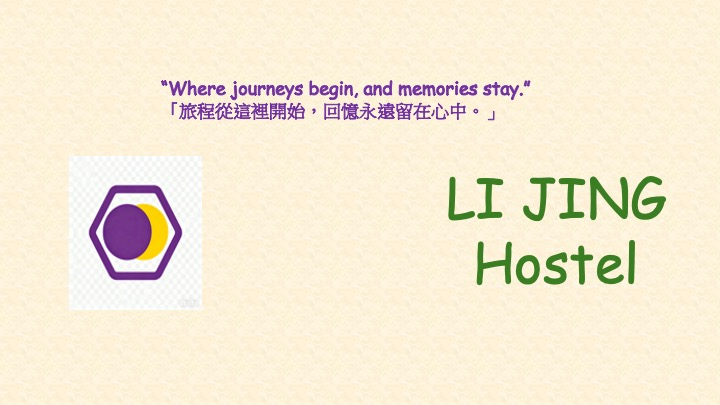
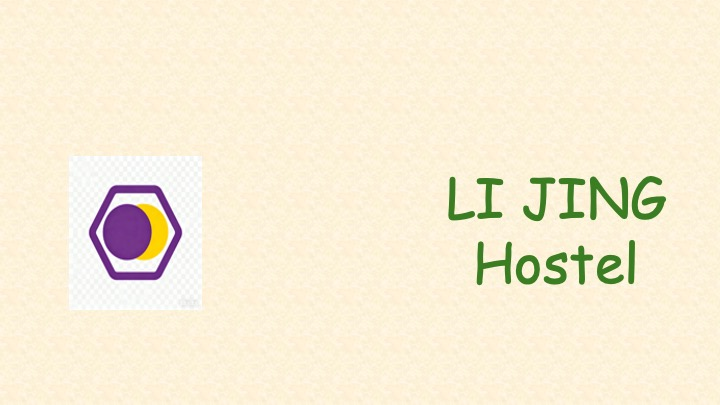
Step 06: upload 10 photos, improve front-end outlook

Changed region(s): [[0.2139, 0.1778, 0.7333, 0.2963]]

diff --git a/templates/listings/listing.html b/templates/listings/listing.html
@@ -44,7 +44,7 @@
         {% comment %} (DONE) {% endcomment %}
         <a href={% url "listings:listings" %} class="btn btn-light mb-4">Back To Listings</a>
         <div class="row">
-        <div class="col-md-9">j
+        <div class="col-md-9">
             <!-- Home Main Image -->
             {% comment %} (DONE) {% endcomment %}
             <img
@@ -161,41 +161,40 @@
             <div class="col-md-6">
                 <ul class="list-group list-group-flush">
                 <li class="list-group-item text-secondary">
-                    <i class="fas fa-money-bill-alt"></i> Inpatient Fee
-                    Estimate:
-                    <span class="float-right">$20,000/Day</span>
+                    <i class="fas fa-money-bill-alt"></i> Office-Style rooms:
+                    <span class="float-right">HK$499 per day</span>
                 </li>
                 <li class="list-group-item text-secondary">
-                    <i class="fas fa-bed"></i> Bedrooms:
-                    <span class="float-right">30</span>
+                    <i class="fas fa-bed"></i> Romantic-Style rooms:
+                    <span class="float-right">HK$999 per day</span>
                 </li>
                 <li class="list-group-item text-secondary">
-                    <i class="fas fa-bath"></i> Bathrooms:
-                    <span class="float-right">Private</span>
+                    <i class="fas fa-bath"></i> Family-Friendly rooms:
+                    <span class="float-right">HK$999 per day</span>
                 </li>
                 <li class="list-group-item text-secondary">
-                    <i class="fas fa-dumbbell"></i> Treatment:
-                    <span class="float-right"> Have </span>
+                    <i class="fas fa-dumbbell"></i> Study-Focused rooms:
+                    <span class="float-right"> HK$499 per day </span>
                 </li>
                 </ul>
             </div>
             <div class="col-md-6">
                 <ul class="list-group list-group-flush">
                 <li class="list-group-item text-secondary">
-                    <i class="fas fa-th-large"></i> Restrooms:
-                    <span class="float-right">Have</span>
+                    <i class="fas fa-th-large"></i> Fixed rate per guest:
+                    <span class="float-right">HK$299 per day</span>
                 </li>
                 <li class="list-group-item text-secondary">
-                    <i class="fas fa-square"></i> Specialized Care:
-                    <span class="float-right">No</span>
+                    <i class="fas fa-square"></i> Consulting:
+                    <span class="float-right">Tips on shopping, dining etc</span>
                 </li>
                 <li class="list-group-item text-secondary">
-                    <i class="fas fa-calendar"></i> Preventative Services:
-                    <span class="float-right">Have</span>
+                    <i class="fas fa-calendar"></i> Rental:
+                    <span class="float-right">Notebooks, accessories etc</span>
                 </li>
                 <li class="list-group-item text-secondary">
-                    <i class="fas fa-bed"></i> Minor Surgical Procedures:
-                    <span class="float-right">No</span>
+                    <i class="fas fa-bed"></i> Ticket ordering:
+                    <span class="float-right">High Speed Rail</span>
                 </li>
                 </ul>
             </div>
@@ -204,11 +203,8 @@
             <!-- Description -->
             <div class="row mb-5">
             <div class="col-md-12">
-                Lorem ipsum dolor sit amet consectetur adipisicing elit.
-                Mollitia recusandae esse reiciendis officia omnis non rerum
-                dicta cupiditate nostrum molestias deserunt aut minus inventore
-                animi atque, consequuntur ad fugit. Possimus culpa blanditiis
-                repellendus ipsa similique ullam, natus error dolor harum.
+                "Where journeys begin, and memories stay. 
+                旅程從這裡開始, 回憶永遠留在心中."
             </div>
             </div>
         </div>
@@ -221,7 +217,7 @@
                 alt="Seller of the month"
             />
             <div class="card-body">
-                <h5 class="card-title">Medical Practitioner</h5>
+                <h5 class="card-title">Hostel Manager</h5>
                 <h6 class="text-secondary">{{listing.doctor.name}}</h6>
             </div>
             </div>

diff --git a/templates/listings/search.html b/templates/listings/search.html
@@ -6,7 +6,7 @@
         <div class="col-md-12">
             {% comment %} search {% endcomment %}
             <form action="{% url 'listings:search' %}">
-            <!-- Form Row 1 -->
+            <!-- Form Row 1 
             <div class="form-row">
                 <div class="col-md-12 mb-3">
                 <label class="sr-only">Keywords</label>
@@ -14,11 +14,12 @@
                     type="text"
                     name="keywords"
                     class="form-control"
-                    placeholder="Keyword (Clinic, Doctor, City name, Town name, etc)"
+                    placeholder="Keyword"
                     value="{{values.keywords}}"
                 />
                 </div>
             </div>
+            -->
             <!-- Form Row 2 -->
             <div class="form-row">
                 <div class="col-md-4 mb-3">
@@ -32,6 +33,7 @@
                     {% endfor %}
                 </select>
                 </div>
+                <!--
                 <div class="col-md-4 mb-3">
                 <label class="sr-only">Rooms</label>
                 <select name="rooms" class="form-control">
@@ -43,6 +45,7 @@
                     {% endfor %}
                 </select>
                 </div>
+                
                 <div class="col-md-4 mb-3">
                 <select name="room_type" class="form-control" id="type">
                     <option {% if not values.room_type %} selected="true" {% endif %} value=''>
@@ -53,6 +56,7 @@
                     {% endfor %}
                 </select>
                 </div>
+                -->
             </div>
             <button class="btn btn-secondary btn-block mt-4" type="submit">
                 Submit form
@@ -109,18 +113,18 @@
                 <hr />
                 <div class="row py-2 text-secondary">
                 <div class="col-6">
-                    <i class="fas fa-th-large"></i> Services {{listing.service}}
+                    <i class="fas fa-th-large"></i> 辦公室型房間
                 </div>
                 <div class="col-6">
-                    <i class="fas fa-dumbbell"></i> Screens {{listing.screen}} 
+                    <i class="fas fa-dumbbell"></i> 浪漫型房間
                 </div>
                 </div>
                 <div class="row py-2 text-secondary">
                 <div class="col-6">
-                    <i class="fas fa-bed"></i> Rooms {{listing.rooms}}
+                    <i class="fas fa-bed"></i> 歡樂型房間
                 </div>
                 <div class="col-6">
-                    <i class="fas fa-bath"></i> Professionals {{listing.professional}}
+                    <i class="fas fa-bath"></i> 專注型房間
                 </div>
                 </div>
                 <hr />
@@ -129,7 +133,7 @@
                 </div>
                 <div class="row text-secondary pb-2">
                 <div class="col-12">
-                    <i class="fas fa-clock"></i> Reservation required
+                    <i class="fas fa-clock"></i> Hostel Manager
                 </div>
                 </div>
                 
@@ -144,7 +148,7 @@
         {% endfor %}
         {% else %}
         <div class="col-md-12">
-            <p>No Clinic available</p>
+            <p><span style="color: blue; font-weight: bold;">No Hostel available. Please select other district.</span></p>
         </div>
         {% endif %}
         

diff --git a/templates/pages/index.html b/templates/pages/index.html
@@ -19,7 +19,7 @@
             <div class="search">
             {% comment %} f(DONE)ix search {% endcomment %}
               <form action='{% url "listings:search" %}' >
-                <!-- Form Row 1 -->
+                <!-- Form Row 1 
                 <div class="form-row">
                   <div class="col-md-12 mb-3">
                     <label class="sr-only">Keywords</label>
@@ -31,6 +31,7 @@
                     />
                   </div>
                 </div>
+                -->
                 <!-- Form Row 2 -->
                 <div class="form-row">
                   <div class="col-md-4 mb-3">
@@ -56,7 +57,6 @@
                       {% endfor %}
                     </select>
                   </div>
-                -->
                   <div class="col-md-4 mb-3">
                     <select name="room_type" class="form-control" id="type">
                       <option selected="true" value = ''>
@@ -67,6 +67,7 @@
                       {% endfor %}
                     </select>
                   </div>
+                  -->
                 </div>
                 <button class="btn btn-secondary btn-block mt-4" type="submit">
                   Submit form
@@ -106,18 +107,21 @@
                 <hr />
                 <div class="row py-2 text-secondary">
                   <div class="col-6">
+                    <!--
                     <i class="fas fa-th-large"></i> Services {{listing.service}}
+                  -->
+                    <i class="fas fa-th-large"></i> 辦公室型房間
                   </div>
                   <div class="col-6">
-                    <i class="fas fa-dumbbell"></i> Screens {{listing.screen}} 
+                    <i class="fas fa-dumbbell"></i> 浪漫型房間 
                   </div>
                 </div>
                 <div class="row py-2 text-secondary">
                   <div class="col-6">
-                    <i class="fas fa-bed"></i> Rooms {{listing.rooms}}
+                    <i class="fas fa-bed"></i> 歡樂型房間
                   </div>
                   <div class="col-6">
-                    <i class="fas fa-bath"></i> Professionals {{listing.professional}}
+                    <i class="fas fa-bath"></i> 專注型房間
                   </div>
                 </div>
                 <hr />
@@ -126,7 +130,7 @@
                 </div>
                 <div class="row text-secondary pb-2">
                   <div class="col-12">
-                    <i class="fas fa-clock"></i> Reservation required
+                    <i class="fas fa-clock"></i> Hostel Manager
                   </div>
                 </div>
                 <hr />
@@ -140,7 +144,7 @@
           {% endfor %}
           {% else %}
           <div class="col-md-12">
-            <h2>No Clinic Available</h2>
+            <h2>No Hostel Available</h2>
           {% endif %}
         </div>
       </div>

diff --git a/templates/listings/listings.html b/templates/listings/listings.html
@@ -62,18 +62,21 @@
                 <hr />
                 <div class="row py-2 text-secondary">
                   <div class="col-6">
-                    <i class="fas fa-th-large"></i> Services {{listing.service}}
+                    <!--
+                    <i class="fas fa-th-large"></i> 辦公室型房間 {{listing.service}}
+                  -->
+                    <i class="fas fa-th-large"></i> 辦公室型房間
                   </div>
                   <div class="col-6">
-                    <i class="fas fa-dumbbell"></i> Screens {{listing.screen}} 
+                    <i class="fas fa-dumbbell"></i> 浪漫型房間
                   </div>
                 </div>
                 <div class="row py-2 text-secondary">
                   <div class="col-6">
-                    <i class="fas fa-bed"></i> Rooms {{listing.rooms}}
+                    <i class="fas fa-bed"></i> 歡樂型房間
                   </div>
                   <div class="col-6">
-                    <i class="fas fa-bath"></i> Professionals {{listing.professional}}
+                    <i class="fas fa-bath"></i> 專注型房間
                   </div>
                 </div>
                 <hr />
@@ -82,7 +85,7 @@
                 </div>
                 <div class="row text-secondary pb-2">
                   <div class="col-12">
-                    <i class="fas fa-clock"></i> Reservation required
+                    <i class="fas fa-clock"></i> Hostel Manager
                   </div>
                 </div>
                 <hr />
@@ -96,7 +99,7 @@
           {% endfor %}
           {% else %}
           <div class="col-md-12">
-            <p>No Clinic available</p>
+            <p>No Hostel available</p>
           </div>
           {% endif %}
           

diff --git a/templates/accounts/dashboard.html b/templates/accounts/dashboard.html
@@ -7,7 +7,7 @@
         <div class="row text-center">
         <div class="col-md-12">
         <h1 class="display-4">User Dashboard</h1>
-        <p class="lead">Manage your BC Health Care account</p>
+        <p class="lead">Manage your LI JING Hostel account</p>
         </div>
         </div>
     </div>
@@ -35,12 +35,12 @@
         <div class="col-md-12">
         <h2>Welcome {{user.first_name | title}}</h2>
         {% if contacts %}
-        <p>Here are the clinic listings that you have inquired about</p>
+        <p>Here are the hostel listings that you have inquired about</p>
         <table class="table">
             <thead>
             <tr>
                 <th scope="col">#</th>
-                <th scope="col">Clinic</th>
+                <th scope="col">Hostel</th>
                 <th></th>
             </tr>
             </thead>

diff --git a/templates/admin/base_site.html b/templates/admin/base_site.html
@@ -7,7 +7,7 @@
     height="35"
     width="45"
     /> 
-    <span class="brands">Medical Center Admin</span>
+    <span class="brands">LI JING Hostel(麗晶大賓館) Admin</span>
 </h1>
 {% endblock branding %}
 
